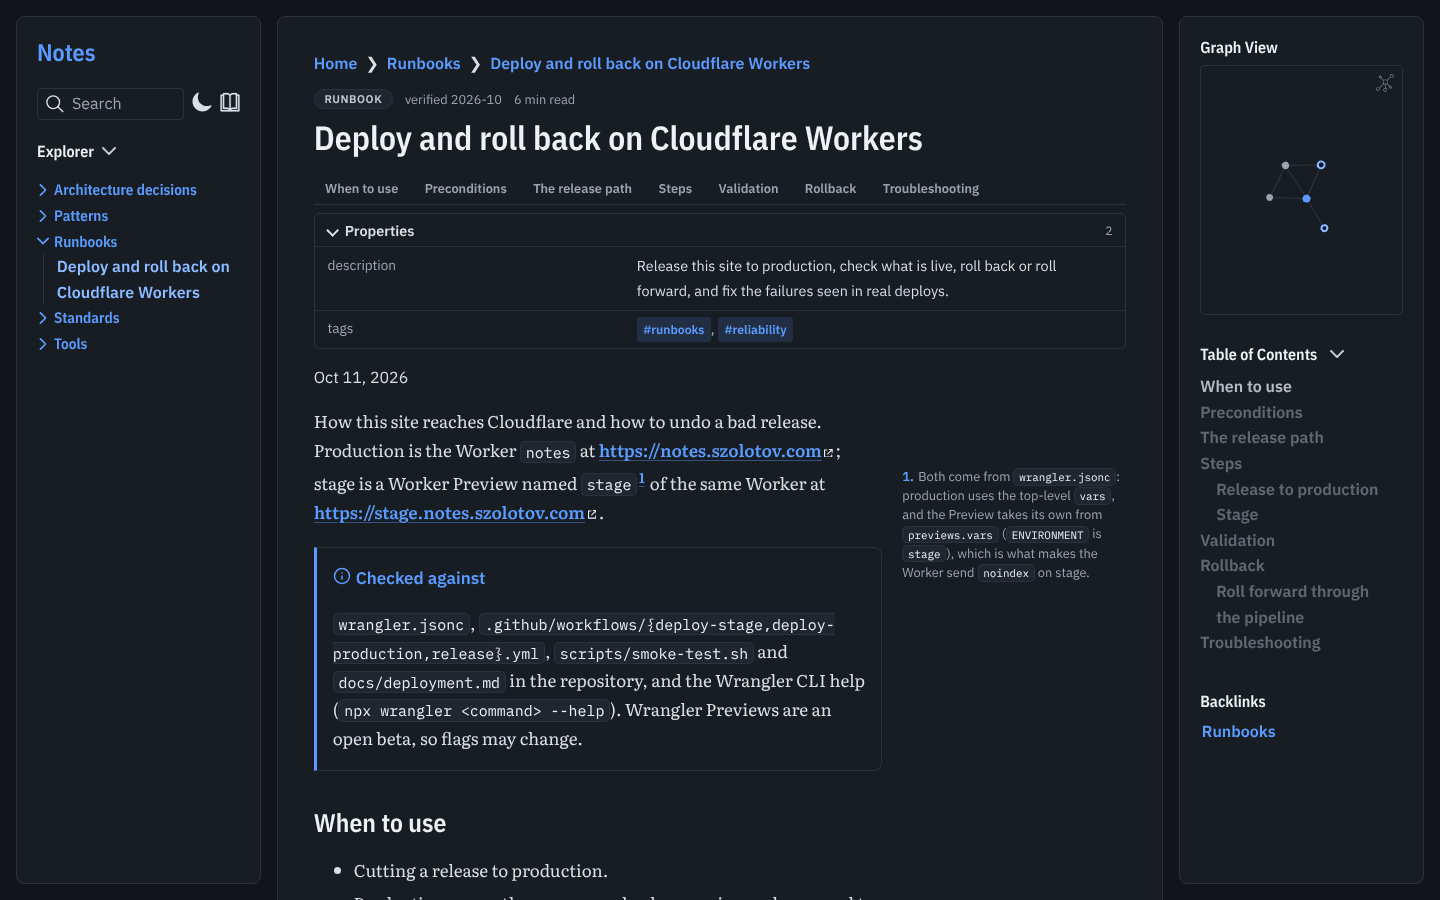
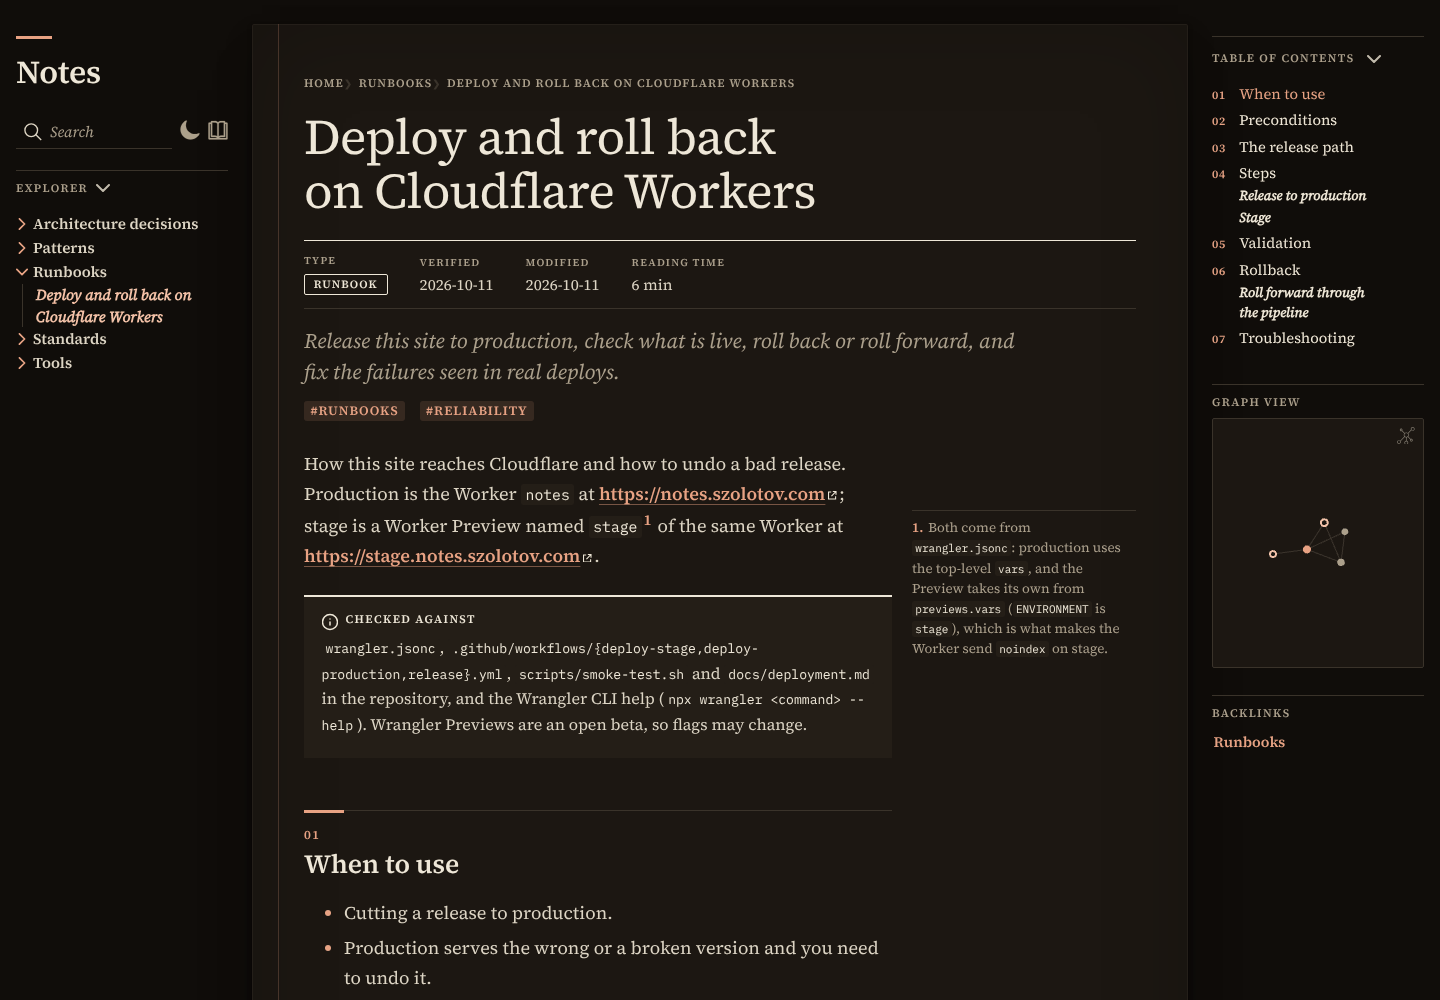
docs: paper theme screenshots and changelog

diff --git a/CHANGELOG.md b/CHANGELOG.md
@@ -21,12 +21,34 @@ The format is based on [Keep a Changelog 1.1.0](https://keepachangelog.com/en/1.
 
 - `scripts/smoke-test.sh` no longer follows redirects: any 3xx is a failure with the status and `Location`. A Cloudflare Access redirect is still detected from the response headers (a notice with `SMOKE_ALLOW_ACCESS=1`, a failure otherwise), but only on a 3xx response: a `Location` header on a 200 is not Access. Tested by `scripts/smoke-test.test.mjs`.
 
+### Added
+
+- Paper design: the article is a sheet of warm paper on a desk-coloured page, with a subtle grain (an SVG noise tile as a data URI in `quartz/styles/custom.scss`), a layered shadow and a faint margin rule. The sidebars have no panels. The dark theme is "paper at night" (warm charcoal sheet, off-white ink, salmon accent). All text pairs, in both themes, pass WCAG AA.
+- `local-plugins/note-index`: the home page shows an index of every note grouped by section, with number and file name, title, type and status chips and the verified (or modified) date, as a table that turns into cards on a phone. Section indexes, the tags pages, 404 and `template.md` files are left out.
+- Numbered `##` sections (01, 02, ...) in notes, by CSS counter, with the same numbers in the table of contents.
+- Print stylesheet: plain paper without sidebars, buttons and shadow, the address after external links, sidenotes as footnotes, and the light colours in both themes.
+
 ### Changed
+
+- Light by default: `scripts/postprocess-build.mjs` now makes the first visit light (it was dark). A saved toggle choice still wins, and the OS theme is still not followed after the first visit. It still fails when it does not recognise the darkmode script.
+- Fonts: Source Serif 4 (400, 600, italic; latin, latin-ext and cyrillic) for all text and IBM Plex Mono for code, replacing IBM Plex Sans, Plex Sans Condensed and Literata. A page loads 76 KB of fonts for Latin text: three Source Serif 4 files (62 KB) and IBM Plex Mono (15 KB). Body text is 1.125rem with a 66ch measure and old-style numerals.
+- The metadata strip above the title is now a spec sheet under it: a ruled list of label and value pairs (type, status, decided, verified, modified, reading time). It is a definition list, and `verified` is shown as a full date. The date line of the content-meta plugin is hidden where the sheet has the modified date.
+- `quartz/styles/custom.scss` is rewritten for the paper design (callouts, code blocks, tables, graph, search, explorer, backlinks, table of contents, sidenotes), with `:focus-visible`, `prefers-reduced-motion` and a 390px single-column layout. The table of contents comes first in the right sidebar.
+- `scripts/check-contrast.mjs` checks the new tokens: body, muted, link, hover, chip, code, callout title and focus-ring pairs on the sheet (including the strongest grain), the desk and the surface tint, in both themes. The light syntax theme's comment colour is darkened in CSS to stay above AA.
+- `content/index.md` keeps its introduction and drops the section table and the "Start with these" list, which the index replaces. `content/standards/writing-notes.md` describes the metadata sheet, the numbered sections and the home index.
+- `docs/screenshots/` holds new screenshots (home, runbook in light and dark, phone).
 
 - `quartz plugin restore` exits non-zero when a plugin fails to build or install, instead of continuing with a partial set. The vendored `quartz/cli/plugin-git-handlers.js` is patched locally; `scripts/update-quartz.sh` notes this.
 - `docs/deployment.md` states that on a tag push or tag dispatch the workflow file and guard script come from the tagged commit, so the guard only catches mistakes; the controls for creating production tags are the `v*` tag ruleset and required reviewers on the `production` environment ("Prevent self-review" when more than one person has access). The "rely on the guard for creations" fallback is removed. The rollback drill notes that tags from before the CI check have no such step and that a very old tag needs its `ci.yml` run record to still exist.
 
 - `docs/deployment.md`: "Repository settings you must apply" (rulesets for `main` and `v*` tags, environment branch policies, optional separate stage token) and a one-time `wrangler rollback` drill.
+
+### Removed
+
+- Section tabs (`local-plugins/section-tabs`): the numbered table of contents makes them redundant.
+- The "Recently updated" list and the `recent-notes` plugin (also from `quartz.lock.json`): the index shows every note with its date.
+- `@fontsource/ibm-plex-sans`, `@fontsource/ibm-plex-sans-condensed` and `@fontsource/literata`.
+- The previous screenshots in `docs/screenshots/` (`phone-dark.png` and the old light and dark ones).
 
 ## [0.3.0] - 2026-10-11
 

diff --git a/README.md b/README.md
@@ -11,7 +11,7 @@ The site is built with [Quartz](https://quartz.jzhao.xyz/) and served by a Cloud
 | `content/`                     | The notes: `adr/`, `patterns/`, `tools/`, `standards/`, `index.md`   |
 | `quartz/`                      | Vendored Quartz engine (do not edit; see "Quartz" below)             |
 | `quartz.config.*`, `quartz.ts` | Site configuration and layout (our customisations)                   |
-| `local-plugins/`               | Local Quartz plugins: metadata strip, section tabs, sidenotes        |
+| `local-plugins/`               | Local Quartz plugins: metadata sheet, note index, sidenotes          |
 | `worker/`, `wrangler.jsonc`    | Cloudflare Worker (headers, robots) and its configuration            |
 | `scripts/`                     | Build helpers, `smoke-test.sh`, `update-quartz.sh`                   |
 | `.github/`                     | Workflows, Dependabot, CODEOWNERS                                    |
@@ -54,11 +54,25 @@ Obsidian workflow: open `content/` as a vault, or publish selected notes with th
 
 ## Design
 
-Dark by default (a saved toggle choice wins), with a light theme. IBM Plex for the interface and Literata for article text, all self-hosted: the woff2 files come from the `@fontsource` devDependencies and are copied to `public/static/fonts/` by `scripts/postprocess-build.mjs`, so the Worker's CSP needs no extra origin. All custom CSS is in `quartz/styles/custom.scss`; the colour keys are in `quartz.config.yaml`. Notes show a metadata strip (`type`, `status`, `verified`, `decided`), section tabs, and sidenotes from 1200px up; the fields are described in `content/standards/writing-notes.md`.
+A sheet of paper on a desk, light by default (a saved toggle choice wins, and the OS theme is not followed after that). The article sits on a warm paper sheet with a faint grain (an SVG `feTurbulence` noise tile as a data URI, so no image file and nothing for the Worker's CSP to allow), a soft layered shadow and a hairline margin rule; the sidebars sit on the desk like the margin of a notebook, with no panels. The dark theme is the same page at night: a warm charcoal sheet with off-white ink and a salmon accent, never pure black or white.
 
-![Dark theme](docs/screenshots/dark-desktop.png)
+Source Serif 4 sets all text (400, 600 and italic; old-style numerals in prose, lining and tabular ones in tables, dates and labels) and IBM Plex Mono the code. Both are self-hosted: the woff2 files come from the `@fontsource` devDependencies and are copied to `public/static/fonts/` by `scripts/postprocess-build.mjs`, so the Worker's CSP needs no extra origin. Small labels are letter-spaced capitals in the same serif.
 
-![Light theme](docs/screenshots/light-desktop.png)
+The structure comes from an index:
+
+- The home page lists every note in a table grouped by section (number, title and file name, type, status, verified or modified date), which becomes a stack of cards on a phone. It is built from the notes' frontmatter by `local-plugins/note-index`, so a new note appears there without any edit to the home page.
+- Notes show a spec sheet under the title (`type`, `status`, `decided`, `verified`, modified date, reading time; `local-plugins/note-meta`), numbered `##` sections (01, 02, ...) that the table of contents on the right repeats, and sidenotes in the margin of the sheet from 1200px up.
+- Printing gives plain paper: no sidebars, external links with their address, sidenotes as footnotes.
+
+All custom CSS is in `quartz/styles/custom.scss` and the colour keys are in `quartz.config.yaml`; `npm run check:contrast` checks both themes. The frontmatter fields are described in `content/standards/writing-notes.md`.
+
+![Home page, light theme](docs/screenshots/home-desktop.png)
+
+![A runbook, light theme](docs/screenshots/light-desktop.png)
+
+![A runbook, dark theme](docs/screenshots/dark-desktop.png)
+
+![A note on a phone](docs/screenshots/phone-light.png)
 
 ## Delivery flow
 
